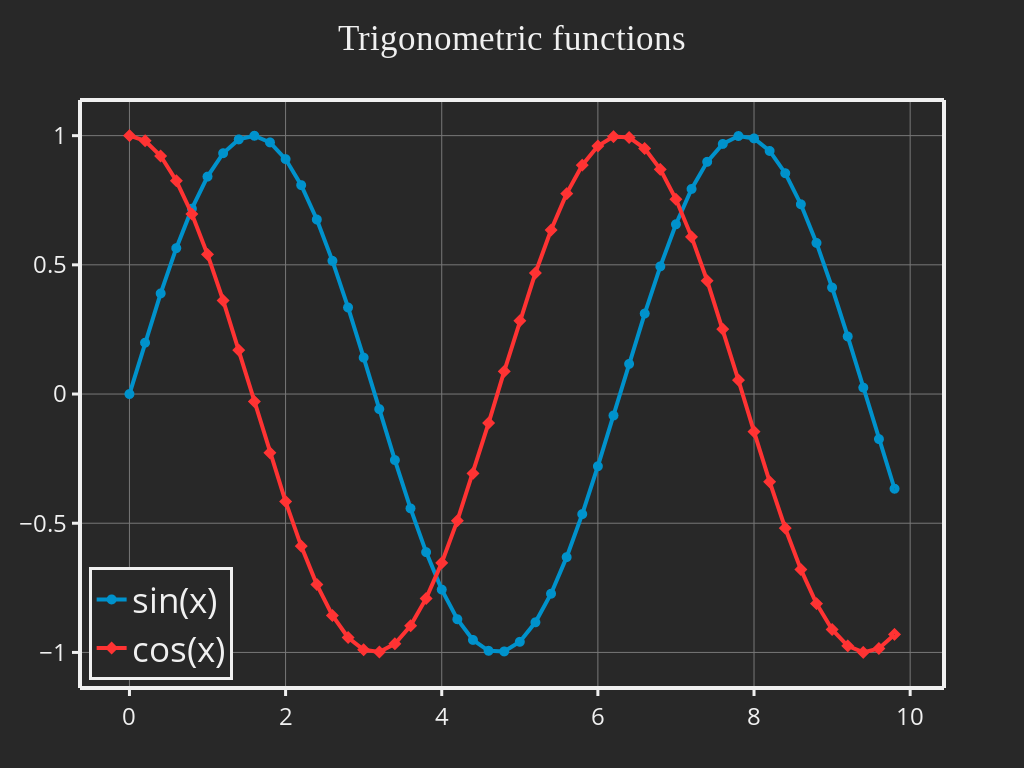
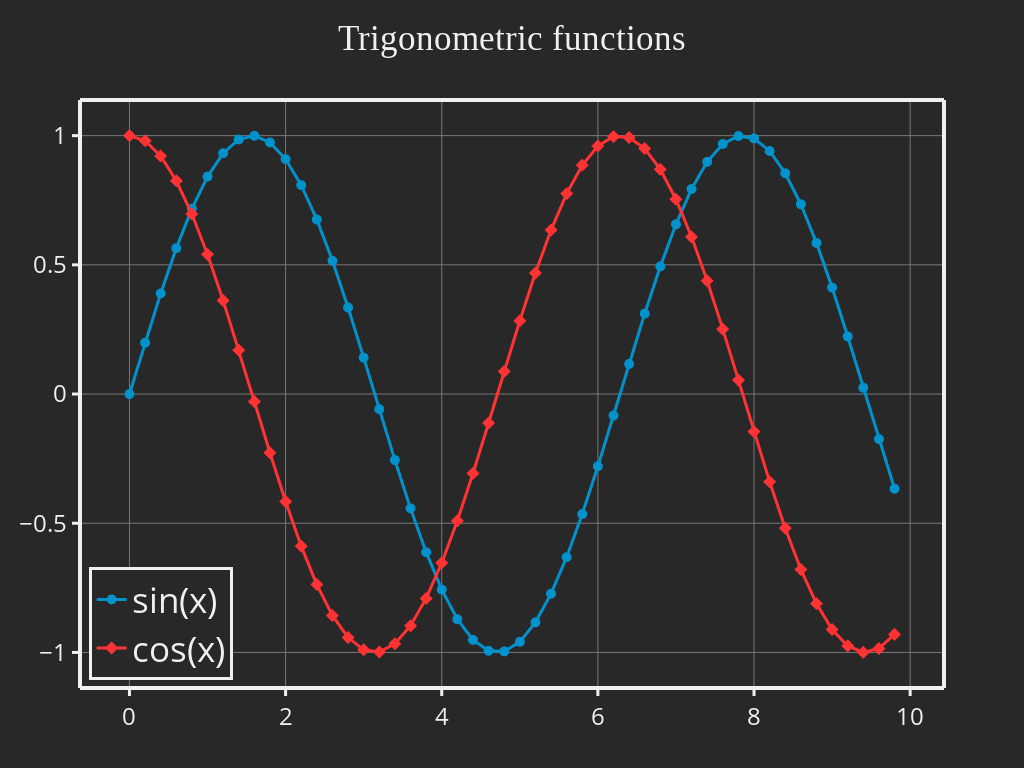
Update example 2

Changed region(s): [[0.4062, 0.7188, 0.4375, 0.7812], [0.6562, 0.25, 0.6875, 0.2812]]

diff --git a/example2/src/main.rs b/example2/src/main.rs
@@ -21,12 +21,12 @@ fn line_and_scatter_plot(x: Vec<f64>, y1: Vec<f64>, y2: Vec<f64>) {
     let trace1 = Scatter::new(x.clone(), y1)
         .name("sin(x)")
         .mode(Mode::LinesMarkers)
-        .line(Line::new().color(linecol1).width(thick as f64))
-        .marker(Marker::new().size(msize).symbol(MarkerSymbol::CircleDot));
+        .line(Line::new().color(linecol1).width(medium as f64))
+        .marker(Marker::new().size(msize).symbol(MarkerSymbol::Circle));
     let trace2 = Scatter::new(x, y2)
         .name("cos(x)")
         .mode(Mode::LinesMarkers)
-        .line(Line::new().color(linecol2).width(thick as f64))
+        .line(Line::new().color(linecol2).width(medium as f64))
         .marker(Marker::new().size(msize).symbol(MarkerSymbol::DiamondDot));
 
     let title = Title::new("Trigonometric functions")
